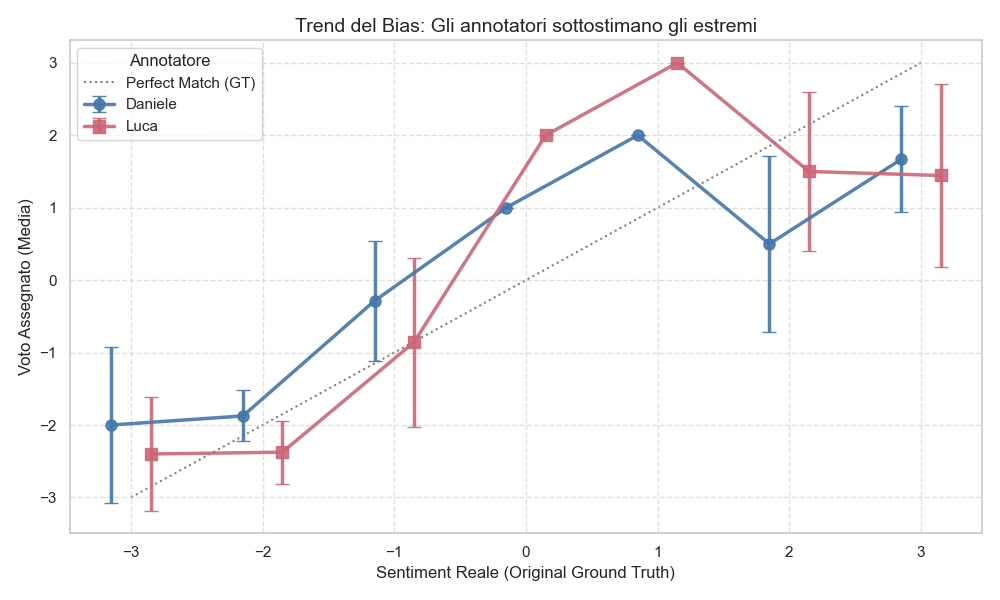
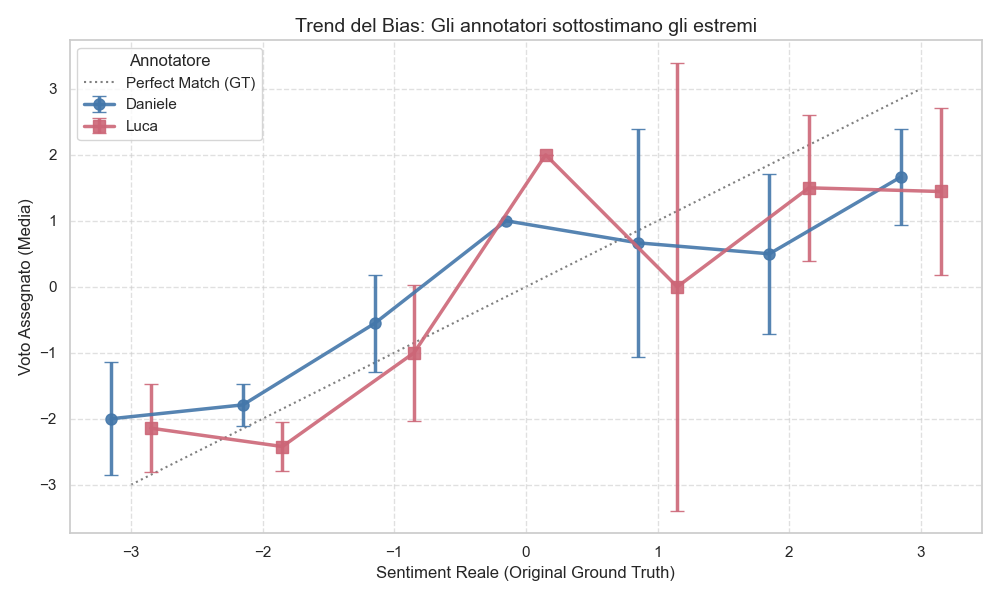
fix

diff --git a/src/tts/bark_v2/annotations_app/agreement_and_correlation_study.py b/src/tts/bark_v2/annotations_app/agreement_and_correlation_study.py
@@ -15,19 +15,14 @@ sns.set_theme(style="whitegrid")
 
 
 def get_metrics_bundle(y1, y2, prefix=""):
-    """
-    Calcola un pacchetto completo di metriche di accordo e correlazione.
-    """
-    # 1. Cohen's Kappa (Unweighted - Accordo Esatto)
+    """Calcola pacchetto completo di metriche."""
+    # Gestione liste vuote per evitare crash
+    if len(y1) == 0 or len(y2) == 0:
+        return {f"{prefix}Status": "Insufficient Data"}
+
     kappa_unweighted = cohen_kappa_score(y1, y2, weights=None)
-
-    # 2. Weighted Kappa (Linear - Accordo con penalità proporzionale)
     kappa_weighted = cohen_kappa_score(y1, y2, weights="linear")
-
-    # 3. Pearson Correlation (Linearità)
     pearson = y1.corr(y2, method="pearson")
-
-    # 4. Spearman Correlation (Rank - Monotonicità, ideale per scale ordinali)
     spearman = y1.corr(y2, method="spearman")
 
     return {
@@ -49,30 +44,41 @@ def print_metrics_section(title, metrics_dict):
 # --- 1. CARICAMENTO DATI ---
 df1 = pd.read_csv(FILE_DANIELE)
 df2 = pd.read_csv(FILE_LUCA)
-
-# Aggiunta etichette annotatori
 df1["Annotator"] = "Daniele"
 df2["Annotator"] = "Luca"
 
-# --- 2. FILTRAGGIO AUDIO BAD (CROSS-ANNOTATOR) ---
-# Se un video è flaggato come bad audio da CHIUNQUE, lo rimuoviamo per TUTTI.
+# --- 2. FILTRAGGIO INTELLIGENTE (Solo Audio Bad) ---
+
+# Identifichiamo i video corrotti (segnalati da ALMENO UNO dei due)
 bad_videos_daniele = df1[df1["is_audio_bad"] == True]["video_name"].unique()
 bad_videos_luca = df2[df2["is_audio_bad"] == True]["video_name"].unique()
-
-# Unione dei set di video "cattivi"
 all_bad_videos = set(bad_videos_daniele).union(set(bad_videos_luca))
 
-print(f"Dataset originale: Daniele={len(df1)}, Luca={len(df2)}")
-print(f"Video con audio corrotto identificati (totali): {len(all_bad_videos)}")
+print(f"Dataset Totale Iniziale: Daniele={len(df1)}, Luca={len(df2)}")
+print(f"Video con audio corrotto identificati: {len(all_bad_videos)}")
 
-# Rimozione
-df1 = df1[~df1["video_name"].isin(all_bad_videos)]
-df2 = df2[~df2["video_name"].isin(all_bad_videos)]
+# FUNZIONE DI PULIZIA:
+# Rimuoviamo la riga SOLO SE:
+# 1. Il video_name è nella lista dei cattivi
+# 2. E la modalità è AUDIO_ONLY
+# (Lasciamo intatte le righe TEXT_ONLY anche se l'audio è rotto)
 
-print(f"Dataset filtrato: Daniele={len(df1)}, Luca={len(df2)}")
+
+def clean_dataset(df, bad_list):
+    # Maschera: True se da cancellare
+    to_drop = (df["video_name"].isin(bad_list)) & (
+        df["presentation_mode"] == "AUDIO_ONLY"
+    )
+    return df[~to_drop].copy()  # Ritorniamo l'inverso (quelli da tenere)
 
 
-# --- 3. CALCOLO METRICHE DETTAGLIATE ---
+df1 = clean_dataset(df1, all_bad_videos)
+df2 = clean_dataset(df2, all_bad_videos)
+
+print(f"Dataset Filtrato (Text preservato): Daniele={len(df1)}, Luca={len(df2)}")
+
+
+# --- 3. CALCOLO METRICHE ---
 
 # A) Coerenza Interna (Audio vs Testo)
 intra_results = {}
@@ -84,10 +90,12 @@ for name, df in [("Daniele", df1), ("Luca", df2)]:
         "human_rating"
     ]
 
+    # Intersezione (Nota: qui i video bad audio verranno esclusi automaticamente perché mancano nel df Audio)
     common = audio.index.intersection(text.index)
+
     if len(common) > 0:
         metrics = get_metrics_bundle(audio[common], text[common])
-        intra_results[f"--- {name} ---"] = ""
+        intra_results[f"--- {name} (n={len(common)}) ---"] = ""
         intra_results.update(metrics)
     else:
         intra_results[f"--- {name} ---"] = "N/A (No overlap)"
@@ -110,7 +118,7 @@ inter_results.update(
 # Per Modalità
 for mode in ["AUDIO_ONLY", "TEXT_ONLY"]:
     subset = merged[merged["presentation_mode"] == mode]
-    inter_results[f"--- {mode} ---"] = ""
+    inter_results[f"--- {mode} (n={len(subset)}) ---"] = ""
     inter_results.update(
         get_metrics_bundle(subset["human_rating_dan"], subset["human_rating_luca"])
     )
@@ -123,12 +131,11 @@ validity_results = {}
 for name, df in [("Daniele", df1), ("Luca", df2)]:
     df_text = df[df["presentation_mode"] == "TEXT_ONLY"]
 
-    validity_results[f"--- {name} (Text Only) ---"] = ""
-    # Metriche di correlazione/kappa
+    validity_results[f"--- {name} (Text Only, n={len(df_text)}) ---"] = ""
     validity_results.update(
         get_metrics_bundle(df_text["human_rating"], df_text["original_sentiment"])
     )
-    # Aggiungiamo MAE specifico
+
     mae = mean_absolute_error(df_text["original_sentiment"], df_text["human_rating"])
     validity_results["MAE (Mean Absolute Error)"] = f"{mae:.3f} punti"
 
@@ -136,9 +143,8 @@ print_metrics_section("VALIDITÀ VS GOLD STANDARD (Ground Truth)", validity_resu
 
 
 # --- 4. GENERAZIONE GRAFICI ---
-# (Usiamo il dataset filtrato df1 e df2)
 
-# Prepariamo dataset unico per i grafici (Solo Text Only per confronto con GT)
+# Dataset unico per grafici (Text Only)
 df_plot = pd.concat(
     [
         df1[df1["presentation_mode"] == "TEXT_ONLY"],
@@ -146,7 +152,7 @@ df_plot = pd.concat(
     ]
 )
 
-# --- GRAFICO 1: BIAS TREND (Manuale) ---
+# --- GRAFICO 1: BIAS TREND ---
 plt.figure(figsize=(10, 6))
 
 agg_data = (
@@ -162,10 +168,11 @@ styles = {
 }
 
 for annotator in ["Daniele", "Luca"]:
-    subset = agg_data[agg_data["Annotator"] == annotator]
+    # FIX: Usiamo .copy() per evitare il SettingWithCopyWarning
+    subset = agg_data[agg_data["Annotator"] == annotator].copy()
     style = styles[annotator]
 
-    # Fill NaN CI with 0 for single points (avoid plotting errors)
+    # Riempie i NaN con 0 (per i punti singoli dove std non è calcolabile)
     subset["ci"] = subset["ci"].fillna(0)
 
     plt.errorbar(
@@ -195,6 +202,7 @@ plt.tight_layout()
 plt.savefig("src/tts/bark_v2/annotations_app/results/1_bias_trend.png")
 print("\n[Grafico salvato]: 1_bias_trend.png")
 
+
 # --- GRAFICO 2: MATRICI DI CONFUSIONE ---
 fig, axes = plt.subplots(1, 2, figsize=(14, 6), sharey=True)
 classes = range(-3, 4)
@@ -223,6 +231,7 @@ plt.suptitle("Matrici di Confusione (Text Only)", fontsize=16)
 plt.tight_layout()
 plt.savefig("src/tts/bark_v2/annotations_app/results/2_confusion_matrix.png")
 print("[Grafico salvato]: 2_confusion_matrix.png")
+
 
 # --- GRAFICO 3: MAE Comparison ---
 mae_data = []
